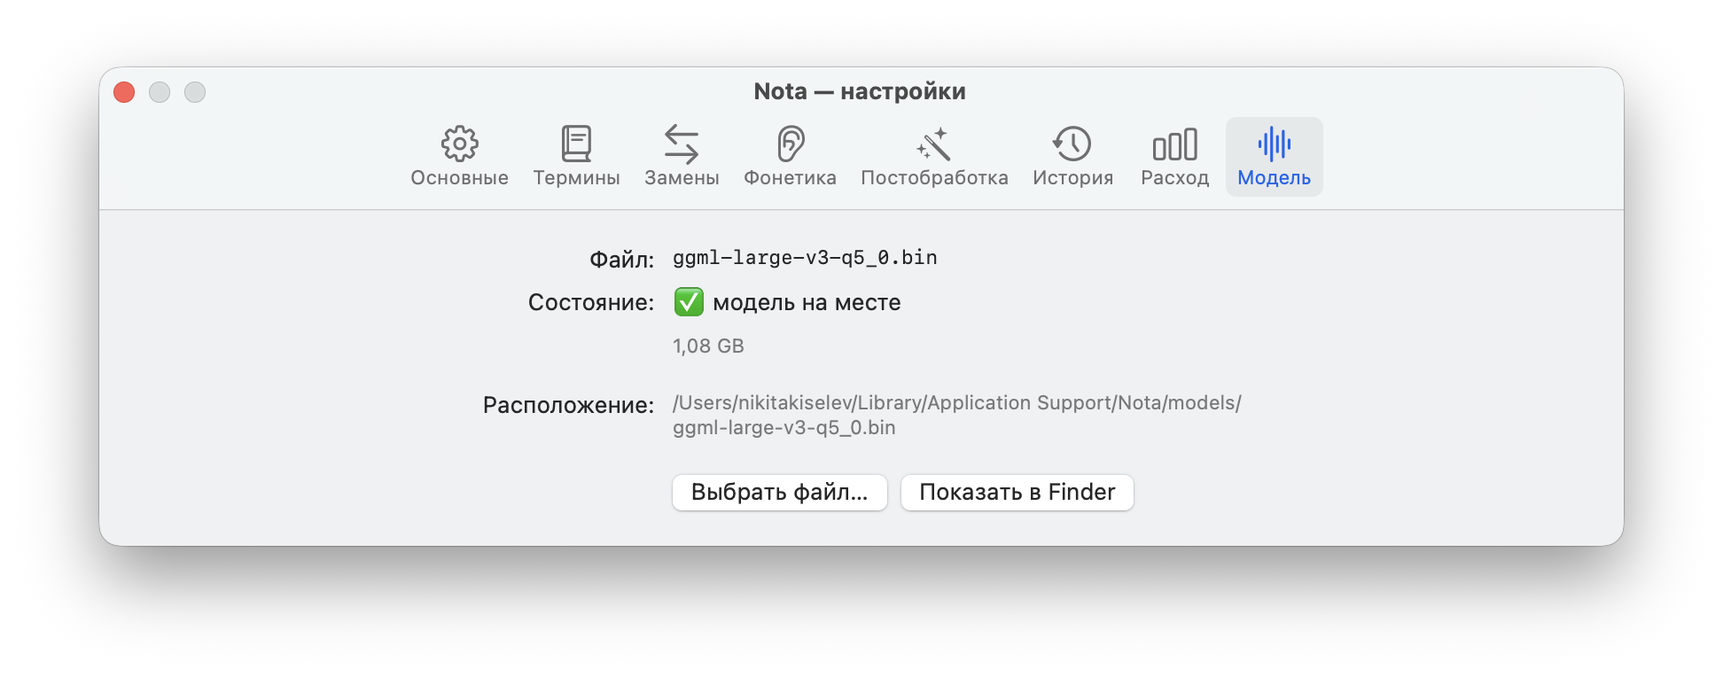
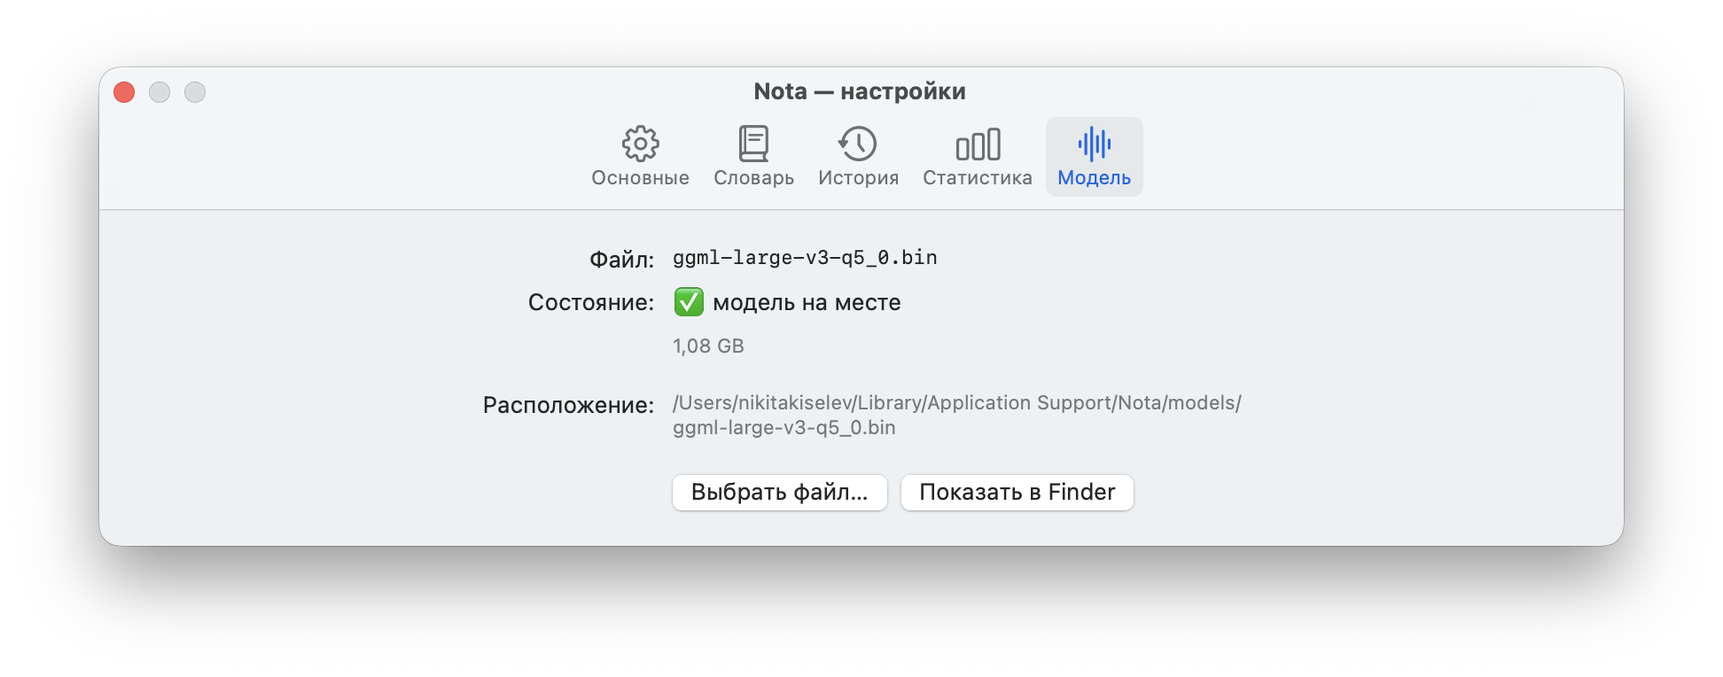
Nota 1.0: один словарь, без постобработки, «Статистика» вместо «Расхода»
Раздел коррекции переписан под один словарь: три шага вместо четырёх
слоёв. Постобработка удалена из приложения — с ней ушли исключение в
блоке приватности, карточка расходов и упоминания вкладки «Расход».
Снимки окна настроек пересняты с пятью вкладками; слайд «История» снят
до нового снимка.

Changed region(s): [[0.2469, 0.1806, 0.7716, 0.2709]]

diff --git a/index.html b/index.html
@@ -279,13 +279,12 @@
 
       <div class="rounded-4xl bg-card border border-line/70 p-7 shadow-card">
         <div class="w-11 h-11 rounded-2xl bg-amber-soft grid place-items-center">
-          <svg width="20" height="20" viewBox="0 0 24 24" fill="none" stroke="rgb(var(--amber))" stroke-width="2" stroke-linecap="round" stroke-linejoin="round"><path d="M12 9v4M12 17h.01"/><path d="M10.3 3.9 1.8 18a2 2 0 0 0 1.7 3h17a2 2 0 0 0 1.7-3L13.7 3.9a2 2 0 0 0-3.4 0Z"/></svg>
+          <svg width="20" height="20" viewBox="0 0 24 24" fill="none" stroke="rgb(var(--amber))" stroke-width="2" stroke-linecap="round" stroke-linejoin="round"><path d="M12 3 4 6v6c0 5 3.5 8 8 9 4.5-1 8-4 8-9V6Z"/><path d="m9 12 2 2 4-4"/></svg>
         </div>
-        <h3 class="mt-5 font-display text-xl font-medium">Одно исключение — явное</h3>
+        <h3 class="mt-5 font-display text-xl font-medium">Без исключений</h3>
         <p class="mt-2.5 text-ink-soft leading-relaxed">
-          Постобработка через внешний API — единственный случай, когда текст может
-          уйти наружу. Она выключена по умолчанию и предупреждает, куда именно
-          отправляется текст, перед тем как вы её включите.
+          Ни аккаунта, ни API-ключей. Текст диктовок не уходит с Mac ни при каких
+          настройках, а статистика хранит только числа — и тоже лежит здесь.
         </p>
       </div>
     </div>
@@ -352,25 +351,33 @@
     <div class="reveal max-w-[62ch]">
       <span class="font-mono text-xs tracking-wide text-violet">/ КОРРЕКЦИЯ ТЕРМИНОВ</span>
       <h2 class="mt-4 font-display font-medium text-[clamp(1.9rem,3.4vw,2.75rem)] leading-[1.1] tracking-[-0.01em]">
-        Термин проходит четыре фильтра, прежде чем стать текстом
+        Слово пишется в словарь один раз — остальное Nota делает сама
       </h2>
       <p class="mt-5 text-lg text-ink-soft leading-relaxed">
-        Каждый слой решает свою задачу и не заменяет остальные — от подсказки,
-        которая формирует само распознавание, до необязательной правки стиля в конце.
+        Один словарь: слово — так, как оно должно писаться, а в скобках, если
+        нужно, — во что его превращает модель. Из этого собираются три защиты.
       </p>
     </div>
 
-    <div class="reveal-stagger mt-16 grid lg:grid-cols-4 gap-5 lg:gap-4 relative">
+    <div class="reveal mt-10 max-w-[62ch] rounded-3xl bg-card border border-line/70 shadow-card px-6 py-5 font-mono text-sm leading-relaxed">
+      <p class="text-ink-faint"># dictionary.yaml</p>
+      <p>words:</p>
+      <p>&nbsp;&nbsp;- terraform</p>
+      <p>&nbsp;&nbsp;- Caddy: <span class="text-violet">[кадди]</span></p>
+      <p>&nbsp;&nbsp;- Claude Code: <span class="text-violet">[код-код, клад код, плот кода]</span></p>
+    </div>
+
+    <div class="reveal-stagger mt-10 grid lg:grid-cols-3 gap-5 lg:gap-4 relative">
       <!-- соединительная линия для десктопа -->
-      <div class="hidden lg:block absolute top-[52px] left-[12.5%] right-[12.5%] h-px bg-line" aria-hidden="true"></div>
+      <div class="hidden lg:block absolute top-[52px] left-[16.6%] right-[16.6%] h-px bg-line" aria-hidden="true"></div>
 
       <div class="relative rounded-4xl bg-card border border-line/70 p-6 shadow-card">
         <span class="font-mono text-xs text-ink-faint">ШАГ 1 · до распознавания</span>
         <div class="mt-3 w-10 h-10 rounded-full bg-violet text-white grid place-items-center font-mono text-sm font-medium relative z-10">01</div>
         <h3 class="mt-4 font-display text-lg font-medium">Подсказка декодеру</h3>
         <p class="mt-2 text-sm text-ink-soft leading-relaxed">
-          Список терминов уходит в whisper ещё до начала записи и заранее
-          сдвигает вероятности словаря в его пользу.
+          Слова словаря уходят в whisper ещё до начала записи и заранее
+          сдвигают вероятности в их пользу — модель пишет их правильно сама.
         </p>
         <div class="mt-4 rounded-xl bg-bg-alt px-3 py-2.5 font-mono text-xs leading-relaxed">
           <span class="text-coral line-through decoration-1">реформ</span>
@@ -380,56 +387,42 @@
       </div>
 
       <div class="relative rounded-4xl bg-card border border-line/70 p-6 shadow-card">
-        <span class="font-mono text-xs text-ink-faint">ШАГ 2 · dictionary.yaml</span>
+        <span class="font-mono text-xs text-ink-faint">ШАГ 2 · после распознавания</span>
         <div class="mt-3 w-10 h-10 rounded-full bg-violet text-white grid place-items-center font-mono text-sm font-medium relative z-10">02</div>
-        <h3 class="mt-4 font-display text-lg font-medium">Точные замены</h3>
+        <h3 class="mt-4 font-display text-lg font-medium">Варианты и регистр</h3>
         <p class="mt-2 text-sm text-ink-soft leading-relaxed">
-          Регулярные выражения для устойчивых, всегда одинаковых искажений
-          после распознавания.
+          Если модель всё же услышала по-своему, вариант из скобок заменяется
+          словом — только целым словом. Латинское слово всегда пишется как в словаре.
         </p>
         <div class="mt-4 rounded-xl bg-bg-alt px-3 py-2.5 font-mono text-xs leading-relaxed">
-          <span class="text-coral line-through decoration-1">пост грез</span>
+          <span class="text-coral line-through decoration-1">клад код</span>
           <span class="text-ink-faint mx-1">→</span>
-          <span class="text-mint">PostgreSQL</span>
+          <span class="text-mint">Claude Code</span>
         </div>
       </div>
 
       <div class="relative rounded-4xl bg-card border border-line/70 p-6 shadow-card">
-        <span class="font-mono text-xs text-ink-faint">ШАГ 3 · glossary.yaml</span>
-        <div class="mt-3 w-10 h-10 rounded-full bg-violet text-white grid place-items-center font-mono text-sm font-medium relative z-10">03</div>
-        <h3 class="mt-4 font-display text-lg font-medium">Фонетический словарь</h3>
+        <span class="font-mono text-xs text-ink-faint">ШАГ 3 · для опытных</span>
+        <div class="mt-3 w-10 h-10 rounded-full bg-card text-violet border-2 border-violet grid place-items-center font-mono text-sm font-medium relative z-10">03</div>
+        <h3 class="mt-4 font-display text-lg font-medium">Регулярные выражения</h3>
         <p class="mt-2 text-sm text-ink-soft leading-relaxed">
-          Сравнивает слово по звучанию, а не по буквам — ловит любые варианты
-          произношения однословных терминов.
+          Для того, что словом не выразить: правило с контекстом, которое
+          срабатывает только рядом с нужным словом.
         </p>
         <div class="mt-4 rounded-xl bg-bg-alt px-3 py-2.5 font-mono text-xs leading-relaxed">
-          <span class="text-coral line-through decoration-1">кубернетес</span>
+          nginx <span class="text-coral line-through decoration-1">статистику</span>
           <span class="text-ink-faint mx-1">→</span>
-          <span class="text-mint">Kubernetes</span>
-        </div>
-      </div>
-
-      <div class="relative rounded-4xl bg-card border border-line/70 p-6 shadow-card">
-        <span class="font-mono text-xs text-ink-faint">ШАГ 4 · опционально</span>
-        <div class="mt-3 w-10 h-10 rounded-full bg-card text-violet border-2 border-violet grid place-items-center font-mono text-sm font-medium relative z-10">04</div>
-        <h3 class="mt-4 font-display text-lg font-medium">Постобработка</h3>
-        <p class="mt-2 text-sm text-ink-soft leading-relaxed">
-          Любая OpenAI-совместимая модель — облачная или локальная (Ollama,
-          LM Studio) — причёсывает стиль и пунктуацию. Выключена по умолчанию.
-        </p>
-        <div class="mt-4 rounded-xl bg-amber-soft px-3 py-2.5 font-mono text-[11px] leading-relaxed text-ink-soft">
-          единственный шаг, где текст может покинуть Mac — и только если вы сами это включили
+          nginx <span class="text-mint">статику</span>
         </div>
       </div>
     </div>
 
     <p class="reveal mt-10 text-ink-soft max-w-[70ch]">
-      Все четыре слоя настраиваются во вкладках «Термины», «Замены», «Фонетика»
-      и «Постобработка». Вставьте распознанный текст в поле проверки — и сразу
-      увидите, что с ним сделают ваши правила, ещё до того как сохраните их.
-      А правило можно вообще не писать руками: поправьте слово в своей же фразе
-      на вкладке «История» — приложение сравнит с исходным и предложит запомнить
-      исправление, само выбрав, термин это или замена.
+      Всё это — одна вкладка «Словарь». Вставьте распознанную фразу в поле
+      проверки — и сразу увидите, что с ней сделает словарь, ещё до того как
+      сохраните его. А слово можно вообще не вписывать руками: поправьте его
+      в своей же фразе на вкладке «История» — приложение предложит запомнить
+      исправление вариантом или новым словом.
     </p>
   </div>
 </section>
@@ -442,11 +435,11 @@
     <div class="reveal max-w-[62ch]">
       <span class="font-mono text-xs tracking-wide text-violet">/ ИНТЕРФЕЙС</span>
       <h2 class="mt-4 font-display font-medium text-[clamp(1.9rem,3.4vw,2.75rem)] leading-[1.1] tracking-[-0.01em]">
-        Каждое правило видно и проверяется на месте
+        Всё видно и проверяется на месте
       </h2>
       <p class="mt-5 text-lg text-ink-soft leading-relaxed">
-        Восемь вкладок: Основные, Термины, Замены, Фонетика, Постобработка, История,
-        Расход, Модель. Каждое правило проверяется на живом тексте прямо в окне.
+        Пять вкладок: Основные, Словарь, История, Статистика, Модель. Каждое
+        слово словаря проверяется на живом тексте прямо в окне.
         Нажмите на снимок, чтобы открыть его крупно.
       </p>
     </div>
@@ -458,56 +451,35 @@
 
         <div class="swiper-slide">
           <figure class="flex flex-col items-center gap-3.5">
-            <img src="assets/screenshots/settings-general@2x.png?v=e1d122b9" alt="Настройки Nota, вкладка «Основные»: клавиша диктовки, язык, панель, автозапуск, диагностический лог, детектор речи, версия" class="h-[clamp(230px,30vw,440px)] w-auto max-w-[78vw] cursor-zoom-in" />
+            <img src="assets/screenshots/settings-general@2x.png?v=63a7bf6c" alt="Настройки Nota, вкладка «Основные»: клавиша диктовки, язык, панель, автозапуск, диагностический лог, детектор речи, версия" class="h-[clamp(230px,30vw,440px)] w-auto max-w-[78vw] cursor-zoom-in" />
             <figcaption class="font-mono text-xs text-ink-soft text-center max-w-[32ch] leading-relaxed">Основные — клавиша, язык, лог, детектор речи</figcaption>
           </figure>
         </div>
 
         <div class="swiper-slide">
           <figure class="flex flex-col items-center gap-3.5">
-            <img src="assets/screenshots/settings-terms@2x.png?v=9ebfbdde" alt="Настройки Nota, вкладка «Термины»: список слов, которые модель должна знать" class="h-[clamp(230px,30vw,440px)] w-auto max-w-[78vw] cursor-zoom-in" />
-            <figcaption class="font-mono text-xs text-ink-soft text-center max-w-[32ch] leading-relaxed">Термины — слова, которые модель должна знать</figcaption>
+            <img src="assets/screenshots/settings-dictionary@2x.png?v=97fff259" alt="Настройки Nota, вкладка «Словарь»: слова и варианты, во что их превращает модель, с проверкой фразы вживую" class="h-[clamp(230px,30vw,440px)] w-auto max-w-[78vw] cursor-zoom-in" />
+            <figcaption class="font-mono text-xs text-ink-soft text-center max-w-[32ch] leading-relaxed">Словарь — слова и во что их превращает модель</figcaption>
           </figure>
         </div>
 
         <div class="swiper-slide">
           <figure class="flex flex-col items-center gap-3.5">
-            <img src="assets/screenshots/settings-replacements@2x.png?v=e4c42974" alt="Настройки Nota, вкладка «Замены»: точные правила после распознавания с проверкой вживую" class="h-[clamp(230px,30vw,440px)] w-auto max-w-[78vw] cursor-zoom-in" />
-            <figcaption class="font-mono text-xs text-ink-soft text-center max-w-[32ch] leading-relaxed">Замены — точные правила с проверкой вживую</figcaption>
+            <img src="assets/screenshots/settings-rules@2x.png?v=8f03ea82" alt="Настройки Nota, вкладка «Словарь», раздел «Регулярные выражения»: правила для опытных" class="h-[clamp(230px,30vw,440px)] w-auto max-w-[78vw] cursor-zoom-in" />
+            <figcaption class="font-mono text-xs text-ink-soft text-center max-w-[32ch] leading-relaxed">Регулярные выражения — для того, что словом не выразить</figcaption>
           </figure>
         </div>
 
         <div class="swiper-slide">
           <figure class="flex flex-col items-center gap-3.5">
-            <img src="assets/screenshots/settings-phonetics@2x.png?v=84572b7e" alt="Настройки Nota, вкладка «Фонетика»: сопоставление терминов по звучанию" class="h-[clamp(230px,30vw,440px)] w-auto max-w-[78vw] cursor-zoom-in" />
-            <figcaption class="font-mono text-xs text-ink-soft text-center max-w-[32ch] leading-relaxed">Фонетика — сопоставление терминов по звучанию</figcaption>
+            <img src="assets/screenshots/settings-stats@2x.png?v=212ee11c" alt="Настройки Nota, вкладка «Статистика»: слова, темп речи, сэкономленное время и график по дням" class="h-[clamp(230px,30vw,440px)] w-auto max-w-[78vw] cursor-zoom-in" />
+            <figcaption class="font-mono text-xs text-ink-soft text-center max-w-[32ch] leading-relaxed">Статистика — слова, темп речи, экономия времени</figcaption>
           </figure>
         </div>
 
         <div class="swiper-slide">
           <figure class="flex flex-col items-center gap-3.5">
-            <img src="assets/screenshots/settings-postprocess@2x.png?v=4ff60c7b" alt="Настройки Nota, вкладка «Постобработка»: исправление текста внешней моделью, выключено по умолчанию" class="h-[clamp(230px,30vw,440px)] w-auto max-w-[78vw] cursor-zoom-in" />
-            <figcaption class="font-mono text-xs text-ink-soft text-center max-w-[32ch] leading-relaxed">Постобработка — внешняя модель, выключена по умолчанию</figcaption>
-          </figure>
-        </div>
-
-        <div class="swiper-slide">
-          <figure class="flex flex-col items-center gap-3.5">
-            <img src="assets/screenshots/settings-history@2x.png?v=f9f73eb9" alt="Настройки Nota, вкладка «История»: последние фразы и превращение правок в правила" class="h-[clamp(230px,30vw,440px)] w-auto max-w-[78vw] cursor-zoom-in" />
-            <figcaption class="font-mono text-xs text-ink-soft text-center max-w-[32ch] leading-relaxed">История — последние фразы, правка учит словари</figcaption>
-          </figure>
-        </div>
-
-        <div class="swiper-slide">
-          <figure class="flex flex-col items-center gap-3.5">
-            <img src="assets/screenshots/settings-usage@2x.png?v=07ed3599" alt="Настройки Nota, вкладка «Расход»: статистика диктовок, темп речи, токены и рубли" class="h-[clamp(230px,30vw,440px)] w-auto max-w-[78vw] cursor-zoom-in" />
-            <figcaption class="font-mono text-xs text-ink-soft text-center max-w-[32ch] leading-relaxed">Расход — статистика, темп речи, токены</figcaption>
-          </figure>
-        </div>
-
-        <div class="swiper-slide">
-          <figure class="flex flex-col items-center gap-3.5">
-            <img src="assets/screenshots/settings-model@2x.png?v=045f4057" alt="Настройки Nota, вкладка «Модель»: расположение и состояние файла весов" class="h-[clamp(230px,30vw,440px)] w-auto max-w-[78vw] cursor-zoom-in" />
+            <img src="assets/screenshots/settings-model@2x.png?v=ff684fce" alt="Настройки Nota, вкладка «Модель»: расположение и состояние файла весов" class="h-[clamp(230px,30vw,440px)] w-auto max-w-[78vw] cursor-zoom-in" />
             <figcaption class="font-mono text-xs text-ink-soft text-center max-w-[32ch] leading-relaxed">Модель — расположение и состояние весов</figcaption>
           </figure>
         </div>
@@ -630,8 +602,8 @@
         Сколько сказано и сколько времени это сэкономило
       </h2>
       <p class="mt-5 text-lg text-ink-soft leading-relaxed">
-        Слова, темп речи, экономия против набора руками, серия дней подряд
-        и расход на постобработку — во вкладке «Расход», графики на Swift Charts.
+        Слова, темп речи, экономия против набора руками и серия дней подряд —
+        во вкладке «Статистика», график на Swift Charts.
       </p>
     </div>
 
@@ -659,7 +631,7 @@
           <div class="flex-1 rounded-t-lg bg-violet" style="height:82%"></div>
         </div>
         <p class="mt-6 text-sm text-ink-soft">
-          Реальный график — с вашими цифрами — во вкладке «Расход» окна настроек.
+          Реальный график — с вашими цифрами — во вкладке «Статистика» окна настроек.
         </p>
       </div>
 
@@ -678,8 +650,8 @@
           <p class="mt-2 font-display text-2xl">3.4 <span class="text-base text-ink-soft font-sans">ч/нед</span></p>
         </div>
         <div class="rounded-3xl bg-card border border-line/70 shadow-card p-5">
-          <p class="font-mono text-xs text-ink-faint">постобработка</p>
-          <p class="mt-2 font-display text-2xl">0 <span class="text-base text-ink-soft font-sans">₽ (выкл.)</span></p>
+          <p class="font-mono text-xs text-ink-faint">распознавание</p>
+          <p class="mt-2 font-display text-2xl">1.5 <span class="text-base text-ink-soft font-sans">с в среднем</span></p>
         </div>
       </div>
     </div>

diff --git a/README.md b/README.md
@@ -15,10 +15,10 @@
 - **Промолчали — ничего не вставится.** Перед распознаванием запись
   проверяет детектор речи: если в ней только тишина, шум или фоновая
   музыка без слов, модель не запускается и не сочиняет фраз вроде «Продолжение следует…».
-- **Четыре слоя коррекции терминов.** Список терминов подсказывается
-  модели до распознавания; точные правила чинят устойчивые искажения;
-  фонетическое сопоставление ловит «кубернетес» → Kubernetes; при желании
-  текст дополнительно правит внешняя модель по OpenAI-совместимому API.
+- **Один словарь для терминов.** Слово пишется так, как должно выглядеть
+  в тексте, а в скобках — во что его превращает модель: `Claude Code: [клад
+  код]`. Слова подсказываются модели до распознавания, варианты заменяются
+  на слово после; для сложных случаев есть регулярные выражения.
 - **Индикатор уровня записи** с зонами и подсказками «тихо, говорите
   громче» — пороги подобраны замером, при каком уровне модель начинает
   терять термины.
@@ -30,8 +30,8 @@
 - **Статистика**: сколько слов надиктовано, темп речи, сколько времени
   сэкономлено против набора руками.
 
-Каждое правило проверяется на живом тексте прямо в окне настроек: вставьте
-распознанную фразу и увидите, что с ней сделают ваши правила.
+Словарь проверяется на живом тексте прямо в окне настроек: вставьте
+распознанную фразу и увидите, что с ней сделает словарь.
 
 ## Требования
 
